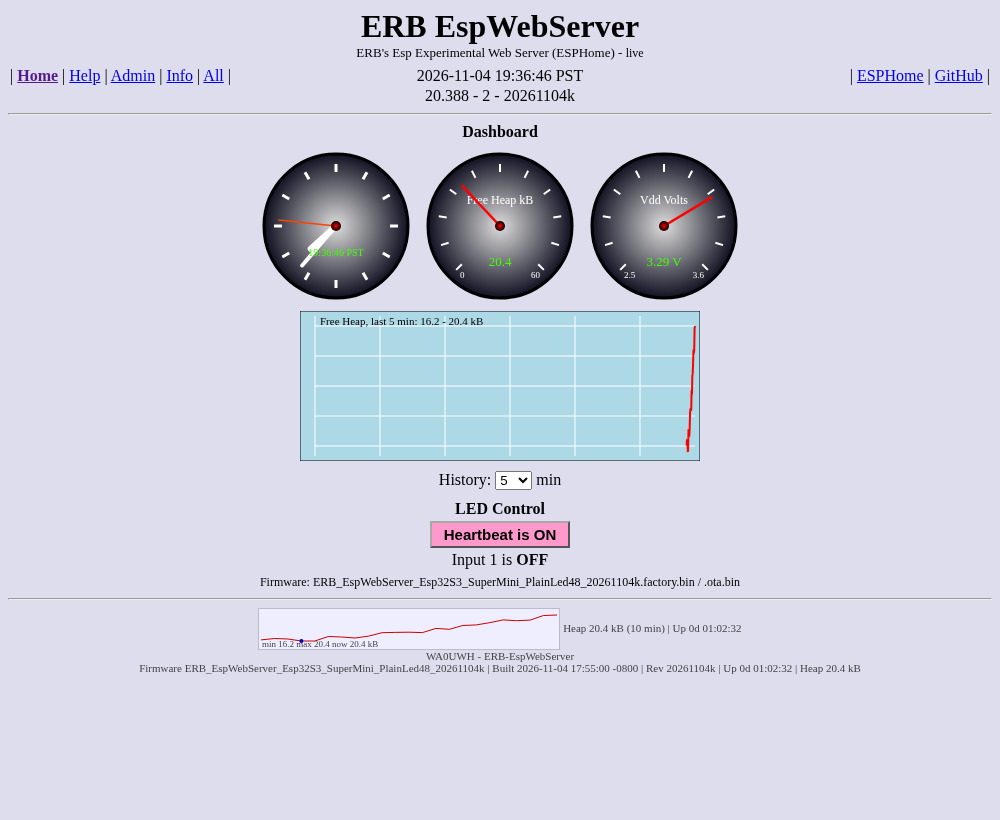
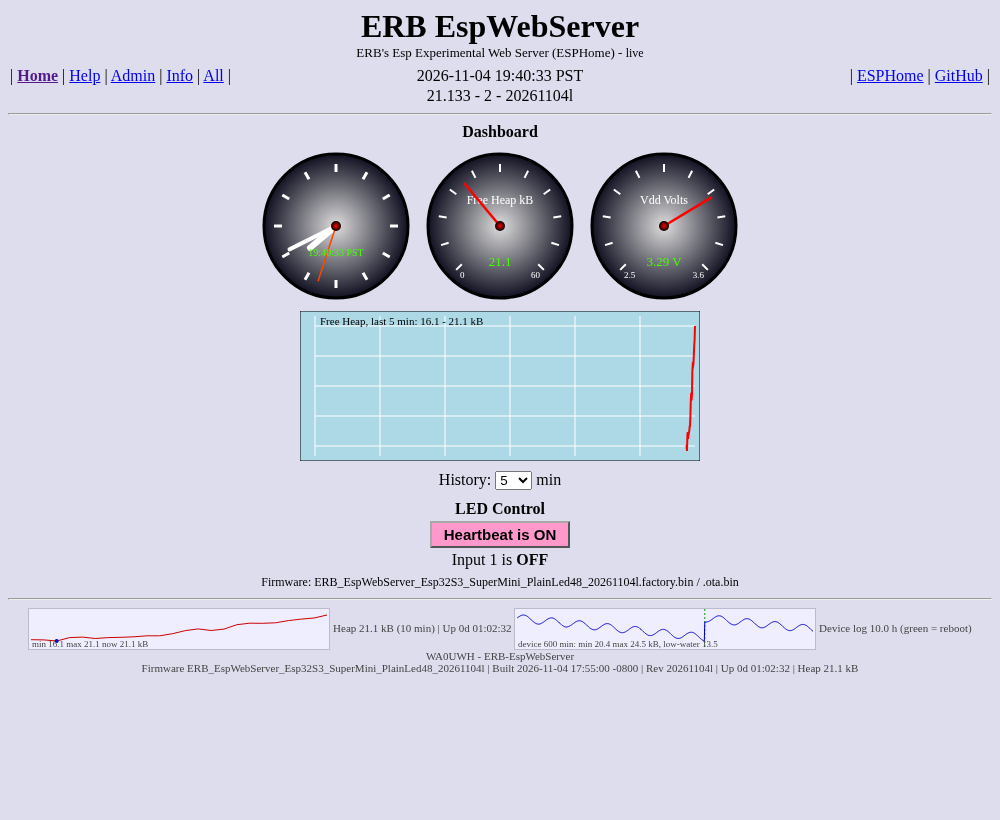
ESPHome Rev 20261104l: on-device heap history (flash ring, served locally)
- erb_heap_log external component: 60 s samples, 2560 x 8 B ring in NVS (no partition change)
- GET /heap_history.csv (chunked), Admin Clear heap history button
- UI long-trend sparkline with reboot markers; mock serves fake history

diff --git a/esphome/www/erb_ui.js b/esphome/www/erb_ui.js
@@ -1,11 +1,11 @@
 // Authors: Grok and Eldon R. Brown - WA0UWH
-// Rev: 20261104k
+// Rev: 20261104l
 // ERB_UI - custom multi-page UI for the standalone ESPHome ERB-EspWebServer.
 // Recreates the 2015 Home / Help / Admin / Info pages + Navigator, from flash, no internet.
 // Data: /events SSE ("state" events, id = "<domain>/<Entity Name>"); actions: REST POST.
 (function () {
-  var Hist_Min = 30, Hist = [], Spark = [], S = {}, Page = 'home', Hits = 0;
-  var Rev = '20261104k';
+  var Hist_Min = 30, Hist = [], Spark = [], LongH = [], S = {}, Page = 'home', Hits = 0;
+  var Rev = '20261104l';
   var css = 'body{background:#ddddee;font-family:Times New Roman,serif;margin:8px;color:#000}' +
     'h1{text-align:center;margin:4px}h1 small{font-size:13px;font-weight:normal;display:block}' +
     '.Nav{width:100%;border-collapse:collapse}.Nav td{padding:2px}.Nav a{color:#00e;cursor:pointer;text-decoration:underline}' +
@@ -99,7 +99,8 @@
     },
     admin: function () {
       return '<div class="Ctr"><b>Admin</b><br><button data-act="button/Restart/press" data-q="Reboot the device?">Reboot</button>' +
-        '<button data-act="button/Restart (Safe Mode)/press" data-q="Reboot into Safe Mode (OTA only)?">Safe Mode</button></div>' +
+        '<button data-act="button/Restart (Safe Mode)/press" data-q="Reboot into Safe Mode (OTA only)?">Safe Mode</button>' +
+        (S['button/Clear Heap History'] ? '<button data-act="button/Clear Heap History/press" data-q="Clear the heap history saved on the device?">Clear heap history</button>' : '') + '</div>' +
         '<pre><b>WiFi Scan</b>\n<span id="v_text_sensor_WiFi_Scan">' + Esc(V('text_sensor/WiFi Scan')) + '</span></pre>' +
         '<form id="otaF"><b>Firmware update</b> (.ota.bin): <input type="file" id="otaFile" accept=".bin"> <button type="submit">Upload</button><br>Chosen: <b id="otaName">none</b> <span id="otaMsg"></span><br>Running: <b>' + Esc(V('text_sensor/Build Name')) + '</b></form>' +
         '<p>To change networks: if the device cannot join its WiFi it starts hotspot <b>ERB-EspWebServer-Setup</b>. Join it and a captive portal page lets you pick a new network.</p>';
@@ -171,6 +172,23 @@
       '<text x="3" y="38" font-size="9" fill="#444">min ' + mn.toFixed(1) + ' max ' + mx.toFixed(1) + ' now ' + cur.toFixed(1) + ' kB</text>';
     t.textContent = 'Heap ' + cur.toFixed(1) + ' kB (10 min) | Up ' + up;
   }
+  function LoadLong() {   // on-device history (NVS ring), GET /heap_history.csv: stamp,free,minfree,boot
+    fetch('/heap_history.csv', { cache: 'no-store' }).then(function (r) { return r.ok ? r.text() : ''; }).then(function (t) {
+      LongH = t.split('\n').slice(1).filter(Boolean).map(function (l) { var a = l.split(','); return [+a[0], a[1] / 1000, a[2] / 1000, +a[3]]; });
+      DrawLong();
+    }).catch(function () { LongH = []; DrawLong(); });
+  }
+  function DrawLong() {
+    var g = $('sparkL'), t = $('spkLTxt'); if (!g) return;
+    if (LongH.length < 2) { g.innerHTML = '<text x="3" y="24" font-size="9" fill="#444">device history: ' + (LongH.length ? '1 sample' : 'none yet') + '</text>'; t.textContent = ''; return; }
+    var v = LongH.map(function (e) { return e[1]; }), mn = Math.min.apply(null, v), mx = Math.max.apply(null, v), r = (mx - mn) || 1, W = 300, H = 40, n = v.length;
+    var lo = Math.min.apply(null, LongH.map(function (e) { return e[2]; }));
+    function X(i) { return (i * (W - 4) / (n - 1) + 2).toFixed(1); } function Y(x) { return (H - 10 - (x - mn) / r * (H - 14) + 2).toFixed(1); }
+    var bm = ''; for (var i = 1; i < n; i++) if (LongH[i][3] != LongH[i - 1][3]) bm += '<line x1="' + X(i) + '" y1="0" x2="' + X(i) + '" y2="' + H + '" stroke="#090" stroke-width="1" stroke-dasharray="2,2"/>';
+    g.innerHTML = bm + '<polyline fill="none" stroke="#00c" stroke-width="1" points="' + v.map(function (x, i) { return X(i) + ',' + Y(x); }).join(' ') + '"/>' +
+      '<text x="3" y="38" font-size="9" fill="#444">device ' + n + ' min: min ' + mn.toFixed(1) + ' max ' + mx.toFixed(1) + ' kB, low-water ' + lo.toFixed(1) + '</text>';
+    t.textContent = 'Device log ' + (n / 60).toFixed(1) + ' h (green = reboot)';
+  }
   function Tick() {
     var p = Pac(new Date()), h = +p.hour, m = +p.minute, sec = +p.second;
     var txt = p.year + '-' + p.month + '-' + p.day + ' ' + p.hour + ':' + p.minute + ':' + p.second + ' ' + p.timeZoneName;
@@ -186,7 +204,7 @@
     if (t.dataset.pg) return Show(t.dataset.pg);
     if (t.dataset.led) return Post('/switch/' + Enc(t.dataset.led) + '/toggle');
     if (t.dataset.q && !confirm(t.dataset.q)) return;
-    Post('/' + Enc(t.dataset.act));
+    Post('/' + Enc(t.dataset.act)).then(function () { if (t.dataset.act.indexOf('Clear Heap') >= 0) setTimeout(LoadLong, 1500); });
   });
   document.addEventListener('submit', function (ev) {
     if (ev.target.id != 'otaF') return; ev.preventDefault();
@@ -227,9 +245,9 @@
   }
   function Start() {
     document.body.innerHTML = '<h1 id="erbTitle">ERB EspWebServer<small>ERB\'s Esp Experimental Web Server (ESPHome) - <span id="Conn">connecting</span></small></h1>' +
-      '<div id="erbNav"></div><hr><div id="erbPage"></div><hr><div class="Ctr" style="font-size:11px;color:#444"><svg id="spark" width="300" height="40" style="vertical-align:middle;background:#eef;border:1px solid #bbc"></svg> <span id="spkTxt">--</span></div><div class="Ctr" style="font-size:11px;color:#444">WA0UWH - ERB-EspWebServer<br>Firmware <span id="ftBuild">--</span> | Built <span id="ftTime">--</span> | Rev ' + Rev + ' | Up <span id="ftUp">--</span> | Heap <span id="ftHeap">--</span></div>';
+      '<div id="erbNav"></div><hr><div id="erbPage"></div><hr><div class="Ctr" style="font-size:11px;color:#444"><svg id="spark" width="300" height="40" style="vertical-align:middle;background:#eef;border:1px solid #bbc"></svg> <span id="spkTxt">--</span> <svg id="sparkL" width="300" height="40" style="vertical-align:middle;background:#eef;border:1px solid #bbc"></svg> <span id="spkLTxt"></span></div><div class="Ctr" style="font-size:11px;color:#444">WA0UWH - ERB-EspWebServer<br>Firmware <span id="ftBuild">--</span> | Built <span id="ftTime">--</span> | Rev ' + Rev + ' | Up <span id="ftUp">--</span> | Heap <span id="ftHeap">--</span></div>';
     S['x/rev'] = { state: Rev };
-    Show('home'); Connect(); setInterval(Tick, 1000); setInterval(DrawLine, 10000);
+    Show('home'); Connect(); LoadLong(); setInterval(LoadLong, 300000); setInterval(Tick, 1000); setInterval(DrawLine, 10000);
   }
   if (document.readyState == 'loading') document.addEventListener('DOMContentLoaded', Start); else Start();
 })();

diff --git a/esphome/mock/Mock_Server.js b/esphome/mock/Mock_Server.js
@@ -1,5 +1,5 @@
 // Authors: Grok and Eldon R. Brown - WA0UWH
-// Rev: 20261104k
+// Rev: 20261104l
 // Mock_Server - fakes the ESPHome v3 web_server (index, /0.js, /events SSE, POST actions)
 // (basic auth guest:grest only when MOCK_AUTH=1) so www/erb_ui.js can be tested in a browser. Usage: node Mock_Server.js [port]
 const http = require('http'), fs = require('fs'), path = require('path');
@@ -8,13 +8,13 @@ const JS = path.join(__dirname, '..', 'www', 'erb_ui.js');
 const S = {
   'sensor/Free Heap': [23456, '23456 B'], 'sensor/Vdd': [3.29, '3.29 V'], 'sensor/WiFi Signal': [-61, '-61 dBm'],
   'sensor/Uptime': [3725, '3725 s'], 'sensor/Heap Max Block': [18000, '18000 B'], 'sensor/Loop Time': [16, '16 ms'],
-  'text_sensor/ESPHome Version': [null, '2026.10.2'], 'text_sensor/Build Name': [null, process.env.MOCK_NO_LEDS ? 'ERB_EspWebServer_Esp32S3_SuperMini_PlainLed48_20261104k' : 'ERB_EspWebServer_Esp8266_NodeMcu_20261104k'], 'text_sensor/Build Time': [null, '2026-11-04 17:55:00 -0800'], 'text_sensor/Reset Reason': [null, 'Power On'],
+  'text_sensor/ESPHome Version': [null, '2026.10.2'], 'text_sensor/Build Name': [null, process.env.MOCK_NO_LEDS ? 'ERB_EspWebServer_Esp32S3_SuperMini_PlainLed48_20261104l' : 'ERB_EspWebServer_Esp8266_NodeMcu_20261104l'], 'text_sensor/Build Time': [null, '2026-11-04 17:55:00 -0800'], 'text_sensor/Reset Reason': [null, 'Power On'],
   'text_sensor/Device Info': [null, '2026.10.2|Flash: 4096kB Speed:40MHz Mode:DIO|Chip: 0x00E42F'],
   'text_sensor/IP Address': [null, '10.10.10.42'], 'text_sensor/Connected SSID': [null, 'MockNet'],
   'text_sensor/Connected BSSID': [null, 'AA:BB:CC:DD:EE:FF'], 'text_sensor/MAC Address': [null, '5C:CF:7F:12:34:56'],
   'text_sensor/WiFi Scan': [null, 'MockNet: -61dB\nNeighbor-5G: -78dB\nWA0UWH-Lab: -70dB'],
   'text_sensor/Clock': [null, ''], 'switch/Red LED': [true, 'ON'], 'switch/Green LED': [false, 'OFF'], 'switch/Blue LED': [false, 'OFF'], 'switch/Heartbeat': [true, 'ON'],
-  'binary_sensor/Input 1': [false, 'OFF'], 'binary_sensor/Status': [true, 'ON'], 'button/Restart': [null, ''], 'button/Restart (Safe Mode)': [null, ''],
+  'binary_sensor/Input 1': [false, 'OFF'], 'binary_sensor/Status': [true, 'ON'], 'button/Restart': [null, ''], 'button/Restart (Safe Mode)': [null, ''], 'button/Clear Heap History': [null, ''],
 };
 if (process.env.MOCK_NO_LEDS) ['switch/Red LED', 'switch/Green LED', 'switch/Blue LED'].forEach(k => delete S[k]);   // PlainLed48 entity set
 const Clients = new Set(), Posts = [];
@@ -39,6 +39,11 @@ http.createServer((q, r) => {
     let n = 0; q.on('data', c => n += c.length); q.on('end', () => { Posts.push('/update ' + n + 'B'); r.writeHead(200); r.end('Update Successful!'); }); return;
   }
   if (u === '/') { r.writeHead(200, { 'Content-Type': 'text/html' }); return r.end('<!DOCTYPE html><html><head><meta charset=UTF-8><link rel=icon href=data:></head><body><script type=module src=/0.js></script><esp-app></esp-app></body></html>'); }
+  if (u === '/heap_history.csv') {   // fake on-device history: 600 min, 2 boots, slow leak
+    let t = 'stamp,free,minfree,boot\n', e = Math.floor(Date.now() / 1000) - 600 * 60;
+    for (let i = 0; i < 600; i++) { const b = i < 380 ? 7 : 8, k = b == 7 ? i : i - 380; t += `${e + i * 60},${Math.round(24000 - k * 8 + 600 * Math.sin(i / 9))},${Math.round(15000 - k * 4)},${b}\n`; }
+    r.writeHead(200, { 'Content-Type': 'text/csv' }); return r.end(t);
+  }
   if (u === '/0.js') { r.writeHead(200, { 'Content-Type': 'text/javascript' }); return r.end(fs.readFileSync(JS)); }
   
   if (u === '/events') {

diff --git a/esphome/mock/Shoot_Tabs.js b/esphome/mock/Shoot_Tabs.js
@@ -1,5 +1,5 @@
 // Authors: Grok and Eldon R. Brown - WA0UWH
-// Rev: 20261104k
+// Rev: 20261104l
 // Shoot_Tabs - headless screenshots of each ERB UI tab against Mock_Server.js.
 const puppeteer = require('/workspace/repos/grok-voice-reader-extension/chrome-extension/node_modules/puppeteer-core');
 const Out = require('path').join(__dirname, '..', 'screens') + (process.env.MOCK_NO_LEDS ? '/PlainLed48' : '');
@@ -23,7 +23,7 @@ require('fs').mkdirSync(Out, { recursive: true });
   await p.click(`[data-pg="home"]`); await p.click('[data-led="Heartbeat"]'); await new Promise(r => setTimeout(r, 500));
   await p.click(`[data-pg="admin"]`);
   const Dlg = []; p.on('dialog', d => Dlg.push(d.message().split('\n')[0]));
-  const Fw = '/tmp/ERB_EspWebServer_Esp32S3_SuperMini_PlainLed48_20261104k.ota.bin'; require('fs').writeFileSync(Fw, Buffer.alloc(4096, 7));
+  const Fw = '/tmp/ERB_EspWebServer_Esp32S3_SuperMini_PlainLed48_20261104l.ota.bin'; require('fs').writeFileSync(Fw, Buffer.alloc(4096, 7));
   await (await p.$('#otaFile')).uploadFile(Fw);
   console.log('CHOSEN', await p.$eval('#otaName', e => e.textContent));
   await p.click('#otaF button'); await new Promise(r => setTimeout(r, 1000));

diff --git a/esphome/components/erb_heap_log/erb_heap_log.h b/esphome/components/erb_heap_log/erb_heap_log.h
@@ -1,0 +1,161 @@
+// Authors: Grok and Eldon R. Brown - WA0UWH
+// Rev: 20261104l
+// ErbHeapLog - every 60 s store {stamp, free heap, min free heap, boot} (8 B) in a 2560-record ring
+// kept as 40 NVS blobs of 64 records (namespace "erbheap"). NVS spreads wear; partition table unchanged.
+// Any NVS failure -> warning + disabled; the device keeps running (never blocks boot).
+// GET /heap_history.csv -> "epoch_or_uptime_s,free_B,minfree_B,boot" oldest first (chunked).
+#pragma once
+#include "esphome/core/component.h"
+#include "esphome/core/log.h"
+#include "esphome/core/hal.h"
+#include "esphome/components/web_server_base/web_server_base.h"
+#include <nvs.h>
+#include <esp_heap_caps.h>
+#include <esp_http_server.h>
+#include <time.h>
+#include <cstring>
+#include <cstdio>
+
+namespace esphome {
+namespace erb_heap_log {
+
+static const char *const TAG = "erb_heap_log";
+static const uint32_t MAGIC = 0x45524248;  // "ERBH"
+static const uint16_t PER_CHUNK = 64, CHUNKS = 40, TOTAL = PER_CHUNK * CHUNKS;
+
+struct __attribute__((packed)) Rec {
+  uint32_t stamp;   // epoch s (if > 1e9) else uptime s
+  uint16_t free16;  // free heap / 16
+  uint16_t bm;      // (boot & 0xF) << 12 | min free heap / 256
+};
+struct Hdr {
+  uint32_t magic;
+  uint16_t head;    // next write index
+  uint16_t count;
+  uint32_t boot;
+};
+
+class ErbHeapLog : public Component, public AsyncWebHandler {
+ public:
+  float get_setup_priority() const override { return setup_priority::LATE; }
+
+  void setup() override {
+    if (nvs_open("erbheap", NVS_READWRITE, &this->h_) != ESP_OK) {
+      ESP_LOGW(TAG, "NVS open failed - heap history disabled");
+      return;
+    }
+    size_t n = sizeof(this->hdr_);
+    if (nvs_get_blob(this->h_, "hdr", &this->hdr_, &n) != ESP_OK || n != sizeof(this->hdr_) ||
+        this->hdr_.magic != MAGIC || this->hdr_.head >= TOTAL || this->hdr_.count > TOTAL) {
+      this->hdr_ = {MAGIC, 0, 0, 0};
+    }
+    this->hdr_.boot++;
+    this->load_chunk_(this->hdr_.head / PER_CHUNK);
+    this->ok_ = this->save_hdr_();
+    if (!this->ok_) ESP_LOGW(TAG, "NVS write failed - heap history disabled");
+    if (web_server_base::global_web_server_base != nullptr)
+      web_server_base::global_web_server_base->add_handler(this);
+    this->set_interval("erb_heap", 60000, [this]() { this->sample_(); });
+  }
+
+  void dump_config() override {
+    ESP_LOGCONFIG(TAG, "ERB heap log: %s, boot %u, %u/%u records, GET /heap_history.csv", this->ok_ ? "on" : "OFF",
+                  (unsigned) this->hdr_.boot, this->hdr_.count, TOTAL);
+  }
+
+  void clear() {
+    if (!this->ok_) return;
+    for (uint16_t c = 0; c < CHUNKS; c++) {
+      char k[8];
+      snprintf(k, sizeof(k), "c%u", c);
+      nvs_erase_key(this->h_, k);
+    }
+    this->hdr_.head = 0;
+    this->hdr_.count = 0;
+    memset(this->buf_, 0, sizeof(this->buf_));
+    this->save_hdr_();
+    ESP_LOGI(TAG, "heap history cleared");
+  }
+
+  bool canHandle(AsyncWebServerRequest *request) const override {
+    char b[AsyncWebServerRequest::URL_BUF_SIZE];
+    return request->method() == HTTP_GET && request->url_to(b) == "/heap_history.csv";
+  }
+
+  void handleRequest(AsyncWebServerRequest *request) override {
+    httpd_req_t *r = *request;
+    httpd_resp_set_type(r, "text/csv");
+    httpd_resp_set_hdr(r, "Cache-Control", "no-store");
+    httpd_resp_sendstr_chunk(r, "stamp,free,minfree,boot\n");
+    if (this->ok_ && this->hdr_.count) {
+      uint16_t cnt = this->hdr_.count, start = (this->hdr_.head + TOTAL - cnt) % TOTAL;
+      Rec chunk[PER_CHUNK];
+      int loaded = -1;
+      char line[1400];
+      size_t len = 0;
+      for (uint16_t i = 0; i < cnt; i++) {
+        uint16_t idx = (start + i) % TOTAL, c = idx / PER_CHUNK;
+        if (c != loaded) {
+          memset(chunk, 0, sizeof(chunk));
+          char k[8];
+          snprintf(k, sizeof(k), "c%u", c);
+          size_t n = sizeof(chunk);
+          nvs_get_blob(this->h_, k, chunk, &n);
+          loaded = c;
+        }
+        const Rec &e = chunk[idx % PER_CHUNK];
+        if (!e.stamp && !e.free16) continue;
+        len += snprintf(line + len, sizeof(line) - len, "%u,%u,%u,%u\n", (unsigned) e.stamp, (unsigned) e.free16 * 16,
+                        (unsigned) (e.bm & 0xFFF) * 256, (unsigned) (e.bm >> 12));
+        if (len > sizeof(line) - 48) {
+          httpd_resp_send_chunk(r, line, len);
+          len = 0;
+        }
+      }
+      if (len) httpd_resp_send_chunk(r, line, len);
+    }
+    httpd_resp_send_chunk(r, nullptr, 0);
+  }
+
+ protected:
+  void load_chunk_(uint16_t c) {
+    memset(this->buf_, 0, sizeof(this->buf_));
+    char k[8];
+    snprintf(k, sizeof(k), "c%u", c);
+    size_t n = sizeof(this->buf_);
+    nvs_get_blob(this->h_, k, this->buf_, &n);
+  }
+  bool save_hdr_() {
+    return nvs_set_blob(this->h_, "hdr", &this->hdr_, sizeof(this->hdr_)) == ESP_OK && nvs_commit(this->h_) == ESP_OK;
+  }
+  void sample_() {
+    if (!this->ok_) return;
+    time_t now = time(nullptr);
+    uint32_t st = now > 1600000000 ? (uint32_t) now : millis() / 1000;
+    uint32_t fr = heap_caps_get_free_size(MALLOC_CAP_INTERNAL), mn = heap_caps_get_minimum_free_size(MALLOC_CAP_INTERNAL);
+    uint16_t c = this->hdr_.head / PER_CHUNK;
+    Rec &e = this->buf_[this->hdr_.head % PER_CHUNK];
+    e.stamp = st;
+    e.free16 = fr / 16 > 0xFFFF ? 0xFFFF : fr / 16;
+    e.bm = (uint16_t) (((this->hdr_.boot & 0xF) << 12) | (mn / 256 > 0xFFF ? 0xFFF : mn / 256));
+    char k[8];
+    snprintf(k, sizeof(k), "c%u", c);
+    if (nvs_set_blob(this->h_, k, this->buf_, sizeof(this->buf_)) != ESP_OK) {
+      ESP_LOGW(TAG, "NVS blob write failed (heap history paused)");
+      return;
+    }
+    this->hdr_.head = (this->hdr_.head + 1) % TOTAL;
+    if (this->hdr_.count < TOTAL) this->hdr_.count++;
+    if (this->hdr_.head % PER_CHUNK == 0) this->load_chunk_(this->hdr_.head / PER_CHUNK);  // next chunk (old data overwritten)
+    this->save_hdr_();
+  }
+
+  nvs_handle_t h_{0};
+  Hdr hdr_{MAGIC, 0, 0, 0};
+  Rec buf_[PER_CHUNK]{};
+  bool ok_{false};
+};
+
+}  // namespace erb_heap_log
+}  // namespace esphome
+// End

diff --git a/esphome/components/erb_heap_log/__init__.py b/esphome/components/erb_heap_log/__init__.py
@@ -1,0 +1,19 @@
+# Authors: Grok and Eldon R. Brown - WA0UWH
+# Rev: 20261104l
+# erb_heap_log - on-device free-heap history: NVS ring (no partition change), served at /heap_history.csv
+import esphome.codegen as cg
+import esphome.config_validation as cv
+from esphome.const import CONF_ID
+
+DEPENDENCIES = ["web_server_base", "esp32"]
+AUTO_LOAD = ["web_server_base"]
+erb_ns = cg.esphome_ns.namespace("erb_heap_log")
+ErbHeapLog = erb_ns.class_("ErbHeapLog", cg.Component)
+
+CONFIG_SCHEMA = cv.Schema({cv.GenerateID(): cv.declare_id(ErbHeapLog)}).extend(cv.COMPONENT_SCHEMA)
+
+
+async def to_code(config):
+    var = cg.new_Pvariable(config[CONF_ID])
+    await cg.register_component(var, config)
+# End

diff --git a/esphome/NOTES.md b/esphome/NOTES.md
@@ -109,3 +109,12 @@
 - Above footer: 300x40 SVG heap sparkline (Spark[], last 300 Free Heap samples ~10 min, browser memory only), min/max/now text, blue min marker, uptime text beside it. Home history graph unchanged.
 - Mock checked (no JS errors), screens/PlainLed48/ refreshed. Full compile log flash/Build_20261104k.log (no warnings, no secrets).
 - flash/ERB_EspWebServer_Esp32S3_SuperMini_PlainLed48_20261104k.factory.bin (933232 B), .ota.bin (867696 B), Rev_20261104k.txt. Credentials baked in. NodeMCU + S3 base compile OK (no bins). PlainLed48 compiled last.
+
+## 2026-11-04 7:43 PM PST - Rev 20261104l: on-device heap history (flash ring, served locally)
+- components/erb_heap_log (external_components, local) + common/ERB_HeapLog.yaml (PlainLed48 only; esp-idf). Every 60 s (set_interval, main loop) stores 8 B {epoch s if SNTP valid else uptime s, free/16, boot&0xF<<12 | minfree/256} in a 2560-record ring (~42.7 h) = 40 NVS blobs x 64 records, namespace "erbheap", header {magic, head, count, boot}.
+- Storage: existing NVS partition (0x70000 = 448 KB). Partition table UNCHANGED (first 64 KB of factory.bin identical to k) - OTA from k is fine.
+- Wear: ~1 x 512 B blob + 12 B header per minute ~ 0.9 MB/day written into NVS, which rotates over ~110 4 KB pages -> ~2 erases/page/day -> 100k-cycle flash ~ 100+ years.
+- Safe: any NVS open/write failure -> ESP_LOGW and disable/pause; never blocks boot. LATE setup priority.
+- GET http://erb-espwebserver-s3.local/heap_history.csv -> "stamp,free,minfree,boot" oldest first, chunked (no big RAM buffer).
+- UI: second 300x40 sparkline "device" long trend (blue, green dashed = reboot, low-water text), fetched on load + every 5 min; Admin "Clear heap history" (confirm) -> button/Clear Heap History/press.
+- Mock serves fake 600-min, 2-boot history. Log flash/Build_20261104l.log: 0 warnings. Bins: _20261104l.factory.bin 935792 B, .ota.bin 870256 B.
